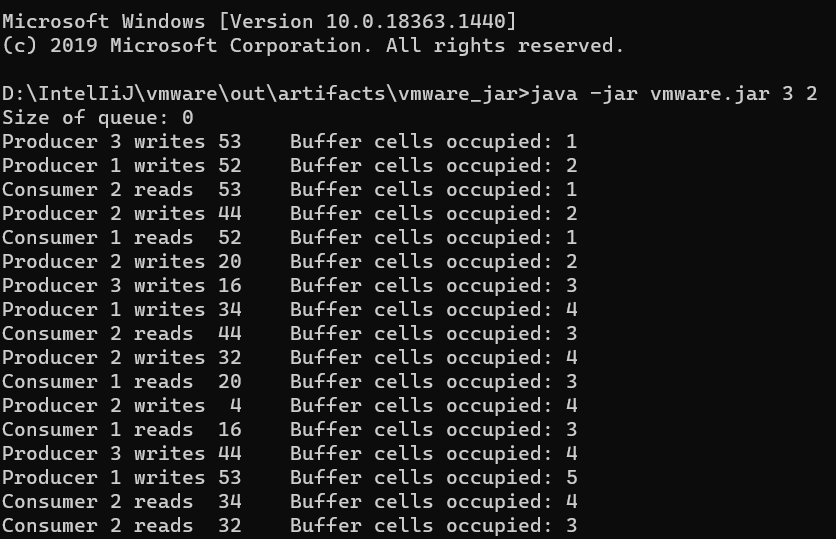
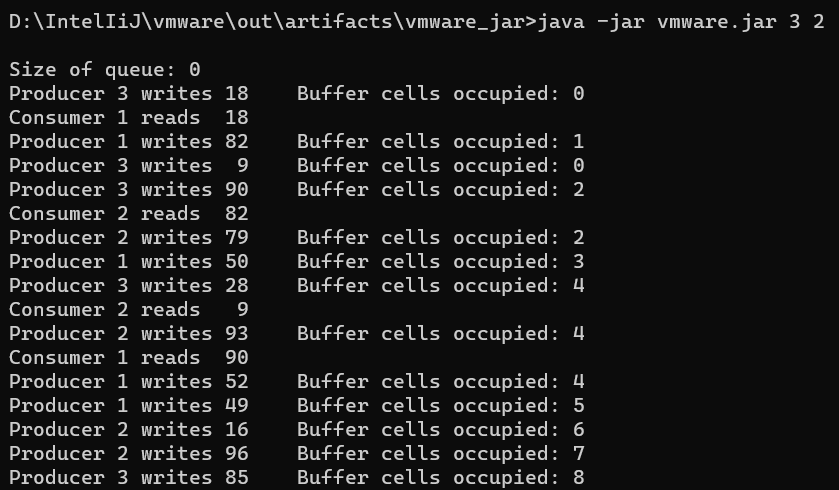
Corrected print output

Changed region(s): [[0.0, 0.0, 0.9952, 1.0], [0.3421, 0.2449, 0.7153, 1.0]]

diff --git a/src/com/vmware/BlockingBuffer.java b/src/com/vmware/BlockingBuffer.java
@@ -17,18 +17,12 @@ public class BlockingBuffer implements Buffer {
     }
 
     // place value into buffer
-    public void blockingPut(int value, int id) throws InterruptedException {
+    public void blockingPut(int value) throws InterruptedException {
         buffer.put(value);
-        System.out.printf("%s%d%s%2d\t%s%d%n", "Producer ", id,
-                " writes ", value, "Buffer cells occupied: ", buffer.size());
     }
 
     // return value from buffer
-    public int blockingGet(int id) throws InterruptedException {
-        int readValue = buffer.take();
-        System.out.printf("%s%d%s %2d\t%s%d%n", "Consumer ", id, " reads ", readValue,
-                "Buffer cells occupied: ", buffer.size());
-
-        return readValue;
+    public int blockingGet() throws InterruptedException {
+        return  buffer.take();
     }
 }

diff --git a/src/com/vmware/Producer.java b/src/com/vmware/Producer.java
@@ -22,7 +22,7 @@ public class Producer implements Runnable {
     public void run() {
 
         boolean needWait = false;
-        int size;
+        int size, value;
 
         while (isRunning) {
 
@@ -47,7 +47,10 @@ public class Producer implements Runnable {
             }
 
             try {
-                sharedLocation.blockingPut((generator.nextInt(99) + 1), id);
+                value = generator.nextInt(99) + 1;
+                System.out.printf("%s%d%s%2d\t%s%d%n", "Producer ", id,
+                        " writes ", value, "Buffer cells occupied: ", size);
+                sharedLocation.blockingPut(value);
             } catch (InterruptedException exception) {
                 Thread.currentThread().interrupt();
             }

diff --git a/src/com/vmware/Consumer.java b/src/com/vmware/Consumer.java
@@ -21,7 +21,8 @@ public class Consumer implements Runnable {
         while (true) {
             try {
                 Thread.sleep(generator.nextInt(100));
-                consumedValue = sharedLocation.blockingGet(id);
+                consumedValue = sharedLocation.blockingGet();
+                System.out.printf("%s%d%s %2d%n", "Consumer ", id, " reads ", consumedValue);
                 Writer.writeToFile(consumedValue);
             } catch (InterruptedException exception) {
                 Thread.currentThread().interrupt();

diff --git a/src/com/vmware/Buffer.java b/src/com/vmware/Buffer.java
@@ -2,9 +2,9 @@ package com.vmware;
 
 public interface Buffer {
 
-    void blockingPut(int value, int id) throws InterruptedException;
+    void blockingPut(int value) throws InterruptedException;
 
-    int blockingGet(int id) throws InterruptedException;
+    int blockingGet() throws InterruptedException;
 
     int getQueueSize();
 }

diff --git a/README.md b/README.md
@@ -11,16 +11,17 @@
    
 2. After locating newly created .jar file run it from terminal with command
    "java -jar filename.jar N M" where N is number of producer threads (1-10) and M is number of consumer threads (1-10).
-   ![img_4.png](photosForReadMe/img_4.png)
+   ![img_5.png](photosForReadMe/img_5.png)
    
 3. Informative window will be opened displaying all the necessary information about running program.  
-Producer X writes random value Z[1-100] to the buffer.  
-   Consumer Y reads value Z from the buffer.     
-![img_6.png](photosForReadMe/img_6.png)
+   Producer X writes random value Z[1-100] to the buffer.  
+   Consumer Y reads value Z from the buffer.  
+   If queue size reaches 100 producer thread will be blocked until the number of elements gets <= 80.     
+   ![img_4.png](photosForReadMe/img_4.png)
    
 4. After user presses command/control + C producer thread(s) will stop producing and when last element will be consumed by consumer thread, program will terminate.
-   ![img_8.png](photosForReadMe/img_11.png)
-   ![img_9.png](photosForReadMe/img_9.png)
+   ![img_6.png](photosForReadMe/img_6.png)
+   ![img_7.png](photosForReadMe/img_7.png)
 
 5. data.txt file will appear in the same directory as filename.jar
-   ![img.png](photosForReadMe/img_10.png)
+   ![img_8.png](photosForReadMe/img_8.png)
